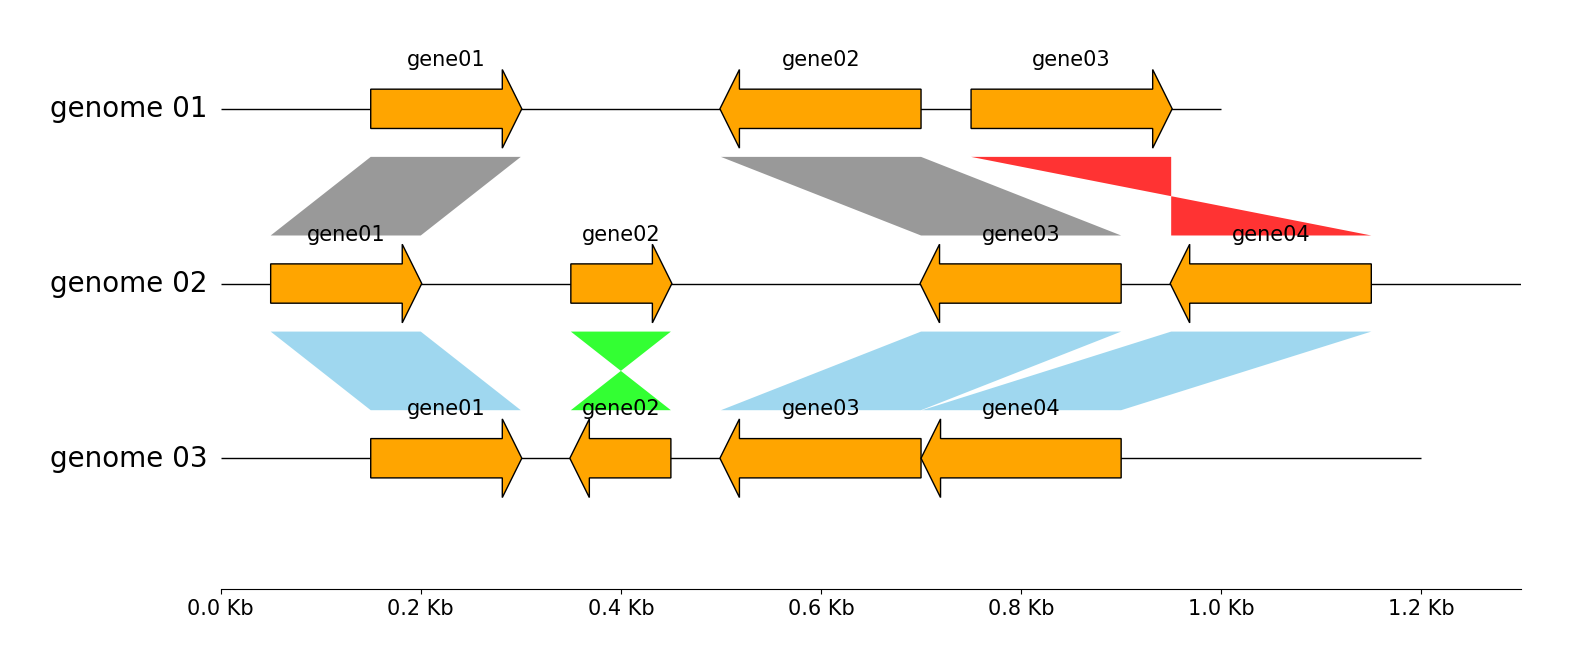
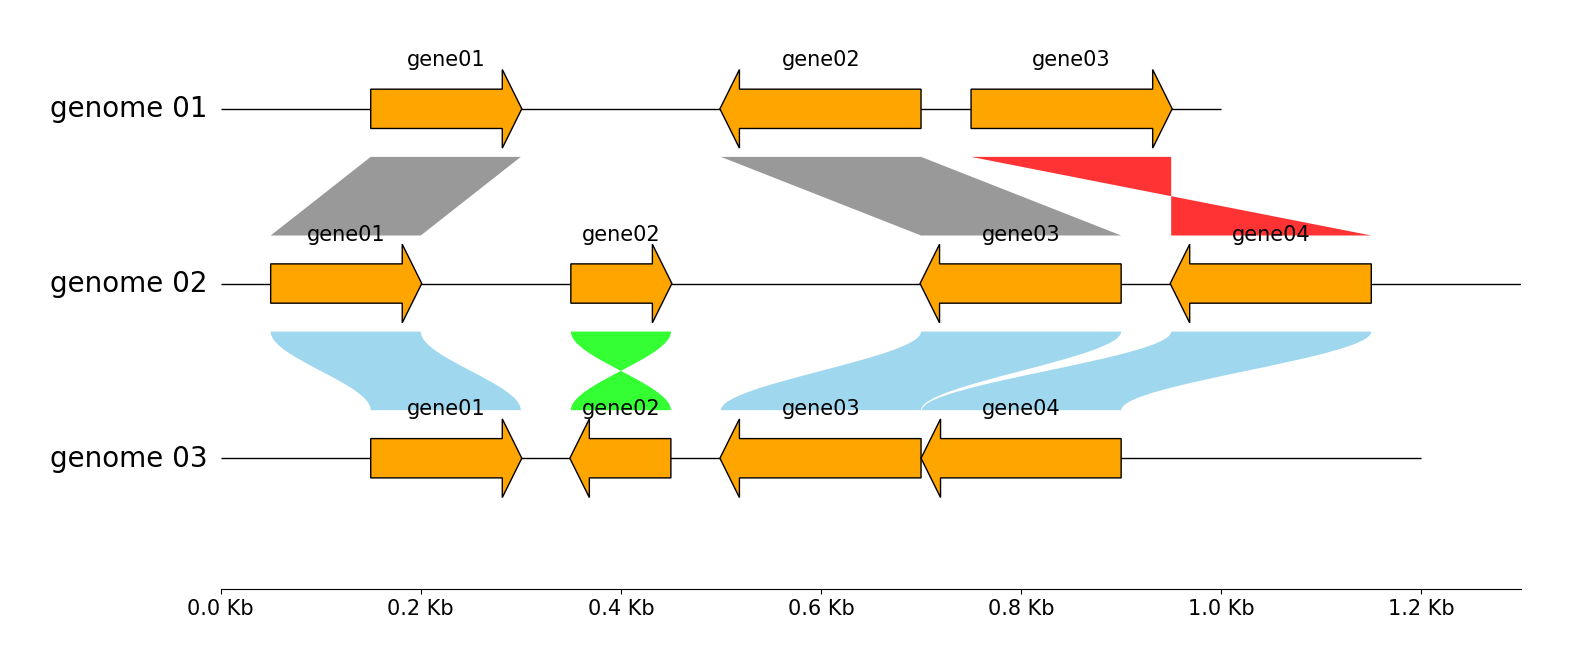
Update documents

diff --git a/example_run.py b/example_run.py
@@ -52,10 +52,10 @@ def example_run02():
     gv.add_link(("genome 01", 700, 500), ("genome 02", 900, 700))
     gv.add_link(("genome 01", 750, 950), ("genome 02", 1150, 950))
     # Add links between "genome 02" and "genome 03"
-    gv.add_link(("genome 02", 50, 200), ("genome 03", 150, 300), normal_color="skyblue", inverted_color="lime")
-    gv.add_link(("genome 02", 350, 450), ("genome 03", 450, 350), normal_color="skyblue", inverted_color="lime")
-    gv.add_link(("genome 02", 900, 700), ("genome 03", 700, 500), normal_color="skyblue", inverted_color="lime")
-    gv.add_link(("genome 03", 900, 701), ("genome 02", 1150, 950), normal_color="skyblue", inverted_color="lime")
+    gv.add_link(("genome 02", 50, 200), ("genome 03", 150, 300), normal_color="skyblue", inverted_color="lime", curve=True)
+    gv.add_link(("genome 02", 350, 450), ("genome 03", 450, 350), normal_color="skyblue", inverted_color="lime", curve=True)
+    gv.add_link(("genome 02", 900, 700), ("genome 03", 700, 500), normal_color="skyblue", inverted_color="lime", curve=True)
+    gv.add_link(("genome 03", 900, 701), ("genome 02", 1150, 950), normal_color="skyblue", inverted_color="lime", curve=True)
 
     gv.savefig("example02.png")
 

diff --git a/README.md b/README.md
@@ -12,8 +12,9 @@
 pyGenomeViz is a genome visualization python package for comparative genomics implemented in matplotlib.
 This package is developed for the purpose of easily and beautifully plotting genomic
 features and sequence similarity comparison links between multiple genomes.
-It supports genome visualization of Genbank format file, and can be used to interactively plot
-genome visualization figure on jupyter notebook, or for integration into a genome analysis pipeline.  
+It supports genome visualization of Genbank format file and can be saved figure in various formats (JPG/PNG/SVG/PDF).
+User can use pyGenomeViz for interactive genome visualization figure plotting on jupyter notebook,
+or automatic genome visualization figure plotting in genome analysis scripts/pipelines.
 
 For more information, please see full documentation [here](https://moshi4.github.io/pyGenomeViz/).
 
@@ -84,10 +85,10 @@ gv.add_link(("genome 01", 150, 300), ("genome 02", 50, 200))
 gv.add_link(("genome 01", 700, 500), ("genome 02", 900, 700))
 gv.add_link(("genome 01", 750, 950), ("genome 02", 1150, 950))
 # Add links between "genome 02" and "genome 03"
-gv.add_link(("genome 02", 50, 200), ("genome 03", 150, 300), normal_color="skyblue", inverted_color="lime")
-gv.add_link(("genome 02", 350, 450), ("genome 03", 450, 350), normal_color="skyblue", inverted_color="lime")
-gv.add_link(("genome 02", 900, 700), ("genome 03", 700, 500), normal_color="skyblue", inverted_color="lime")
-gv.add_link(("genome 03", 900, 701), ("genome 02", 1150, 950), normal_color="skyblue", inverted_color="lime")
+gv.add_link(("genome 02", 50, 200), ("genome 03", 150, 300), normal_color="skyblue", inverted_color="lime", curve=True)
+gv.add_link(("genome 02", 350, 450), ("genome 03", 450, 350), normal_color="skyblue", inverted_color="lime", curve=True)
+gv.add_link(("genome 02", 900, 700), ("genome 03", 700, 500), normal_color="skyblue", inverted_color="lime", curve=True)
+gv.add_link(("genome 03", 900, 701), ("genome 02", 1150, 950), normal_color="skyblue", inverted_color="lime", curve=True)
 
 gv.savefig("example02.png")
 ```

diff --git a/docs/index.md b/docs/index.md
@@ -11,8 +11,9 @@
 pyGenomeViz is a genome visualization python package for comparative genomics implemented in matplotlib.
 This package is developed for the purpose of easily and beautifully plotting genomic
 features and sequence similarity comparison links between multiple genomes.
-It supports genome visualization of Genbank format file, and can be used to interactively plot
-genome visualization figure on jupyter notebook, or for integration into a genome analysis pipeline.
+It supports genome visualization of Genbank format file and can be saved figure in various formats (JPG/PNG/SVG/PDF).
+User can use pyGenomeViz for interactive genome visualization figure plotting on jupyter notebook,
+or automatic genome visualization figure plotting in genome analysis scripts/pipelines.
 
 ## Installation
 
